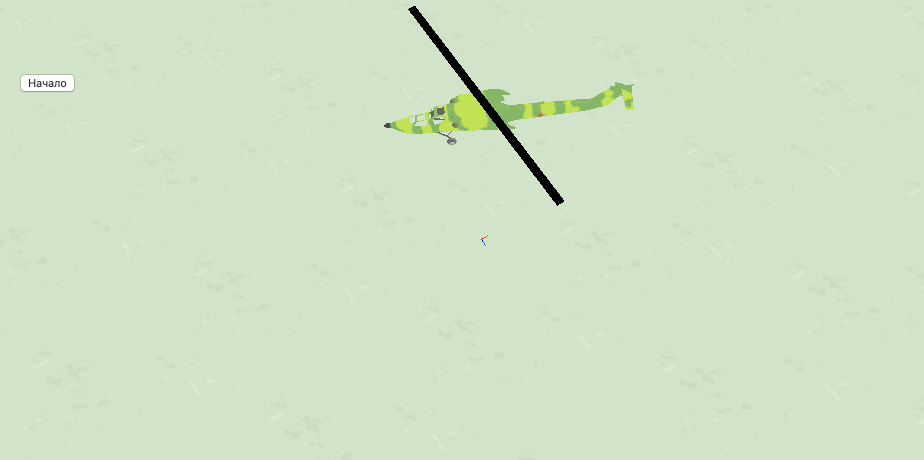
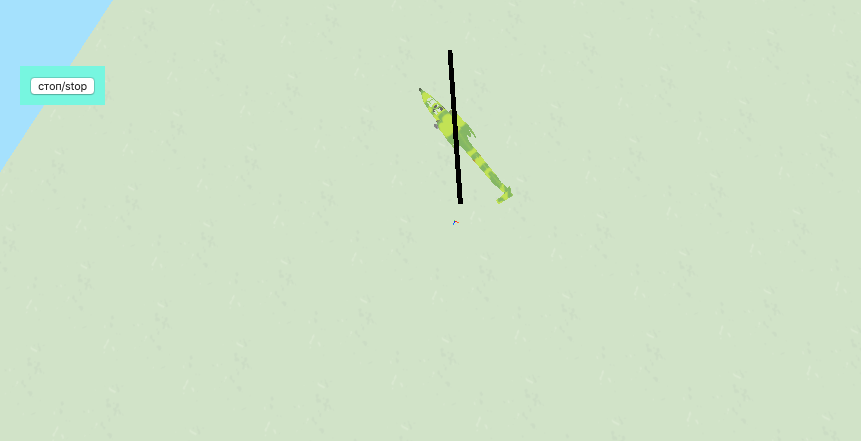
Yo puedo tocar el fuego Puedo hasta quemarme entero No me pidas que te deje de amar ..

Changed region(s): [[0.4228, 0.1179, 0.6945, 0.4717], [0.0, 0.0, 0.151, 0.3832], [0.4228, 0.0, 0.4832, 0.1179]]

diff --git a/Game/OD3.js b/Game/OD3.js
@@ -10,15 +10,20 @@ class OD3 extends Game {
     this.enable_shadows = false;
     this.Mi28 = null;
     this.showAxis = true;
-    //createjs.Sound.registerSound("/Game/assets/sounds/FalklandsAreBritish.mp3", 'gameTheme');
+    createjs.Sound.registerSound("/Game/assets/sounds/FalklandsAreBritish.mp3", 'gameTheme');
   }
 
   init() {
     super.init();
   }
 
-  startBtn(){
-    console.log("planet express spaceship is a webGl camera ..");
+  startBtn(startFlag){
+    this.game_is_started = startFlag;
+    if(this.game_is_started){
+      console.log("planet express spaceship is a webGl camera ..");
+      this.playTheme();
+      this.Mi28.playHeliSound();
+    }
   }
 
   postInit() {
@@ -48,8 +53,8 @@ class OD3 extends Game {
   }
 
   playTheme() {
-    //var s = createjs.Sound.play('gameTheme',{loop:1000});
-    //s.volume = 0.3;
+    var s = createjs.Sound.play('gameTheme',{loop:1000});
+    s.volume = 0.3;
   }
 
   loadTest() {
@@ -151,6 +156,7 @@ class OD3 extends Game {
     this.cameraControl.update();
     this.scene.getObjectByName("ambient").color = new THREE.Color(0x111111);
     if(this.game_is_started){
+//console.log("Fry is a rappist ...");
       this.Mi28.onRender();
     }
   }

diff --git a/index.html b/index.html
@@ -41,16 +41,19 @@
         text-align: center;
         z-index: 100;
         display: block;
+        background-color: #71f7e0;
+        padding: 10px;
       }
     </style>
   </head>
   <body>
     <div id="gameInfo">
-      <button id="startBtn">Начало / Sta</button>
+      <button id="startBtn">hачало/start</button>
     </div>
     <div id="gameContainer"></div>
     <script>
       $(document).ready(function() {
+        var is_started = false;
         var app = new OD3();
         //app.setContainer('app');
         app.init();
@@ -62,8 +65,15 @@
         window.addEventListener("resize", handleResize, false);
 
         $("#startBtn").on("click",function() {
-          app.startBtn();
-        });
+          if(!is_started){
+            $("#startBtn").html("стоп/stop");
+            is_started = true;
+          }else{
+            $("#startBtn").html("hачало/start");
+            is_started = false;
+          }
+          app.startBtn(is_started);
+        }.bind(this));
 
       });
     </script>

diff --git a/emptyLibJS/ES6/3D/Threejs/Templates/Game.js b/emptyLibJS/ES6/3D/Threejs/Templates/Game.js
@@ -19,6 +19,7 @@ class Game {
     this.ds = null; //datastats object
     this.clearColor = 0x000000;
     this.enable_shadows = true;
+    this.game_is_started = false;
     //this.l = new Light();
     /*if (typeof arguments[0] != "undefined") {
       this.setContainer(arguments[0]);
